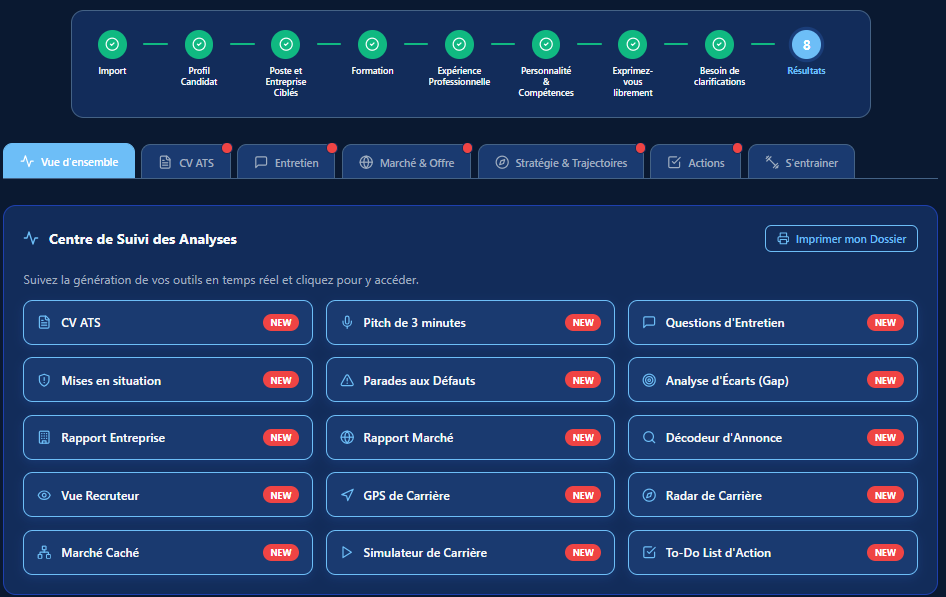
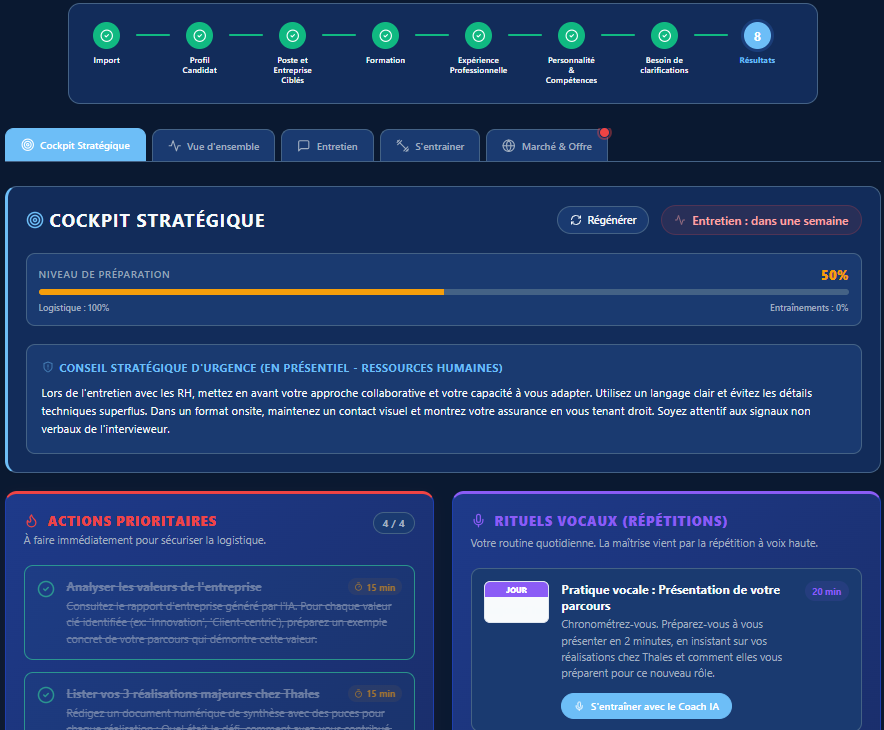
feat: Add TrainingCard component for enhanced question evaluation and feedback display

diff --git a/front/src/components/TrainingCard.tsx b/front/src/components/TrainingCard.tsx
@@ -1,0 +1,198 @@
+import React, { useState } from 'react';
+import { 
+  Star, BrainCircuit, Users, Siren, Target, 
+  CheckCircle, MapPin, Zap, TrendingUp, 
+  Check, X, Award, Loader2 
+} from 'lucide-react';
+
+// --- Définitions des types (à adapter selon votre API) ---
+
+export interface Question {
+  type: 'MES' | 'Classique';
+  text: string;
+  advice: string;
+}
+
+export interface MesAnalysis {
+  diagnostic: string;
+  human: string;
+  action: string;
+  follow_up: string;
+}
+
+export interface StarAnalysis {
+  situation: string;
+  task: string;
+  action: string;
+  result: string;
+}
+
+export interface Evaluation {
+  score: number;
+  strengths: string[];
+  weaknesses: string[];
+  mes_analysis?: MesAnalysis; // Présent si question.type === 'MES'
+  star_analysis?: StarAnalysis; // Présent si question.type === 'Classique' (Optionnel, nécessite d'adapter le prompt AI)
+  improved_answer: string;
+}
+
+// --- Sous-Composants UI ---
+
+const Badge = ({ type }: { type: 'MES' | 'Classique' }) => {
+  const isMes = type === 'MES';
+  const bgColor = isMes ? 'bg-blue-100 text-blue-800' : 'bg-amber-100 text-amber-800';
+  const Icon = isMes ? BrainCircuit : Star;
+
+  return (
+    <span className={`inline-flex items-center px-3 py-1 rounded-full text-xs font-semibold ${bgColor}`}>
+      <Icon className="w-4 h-4 mr-1.5" />
+      {isMes ? 'Mise en Situation (Diagnostic)' : 'Question Comportementale (STAR)'}
+    </span>
+  );
+};
+
+const CoachAdvice = ({ advice }: { advice: string }) => (
+  <div className="mt-4 p-4 bg-gray-50 rounded-lg border border-gray-200">
+    <p className="text-sm text-gray-700">
+      <span className="font-semibold text-indigo-600">💡 Conseil du Coach :</span> {advice}
+    </p>
+  </div>
+);
+
+const MesEvaluationFeedback = ({ analysis }: { analysis: MesAnalysis }) => (
+  <div className="mt-6">
+    <h4 className="text-lg font-semibold text-gray-800 mb-4">Analyse de votre Raisonnement (Diagnostic)</h4>
+    <div className="grid grid-cols-1 md:grid-cols-2 gap-4">
+      <div className="p-4 bg-white rounded-lg border border-gray-200 shadow-sm">
+        <div className="flex items-center mb-2 text-red-600">
+          <Siren className="w-5 h-5 mr-2" />
+          <h5 className="font-semibold">1. Diagnostic</h5>
+        </div>
+        <p className="text-sm text-gray-600">{analysis.diagnostic}</p>
+      </div>
+      <div className="p-4 bg-white rounded-lg border border-gray-200 shadow-sm">
+        <div className="flex items-center mb-2 text-green-600">
+          <Users className="w-5 h-5 mr-2" />
+          <h5 className="font-semibold">2. Impact Humain</h5>
+        </div>
+        <p className="text-sm text-gray-600">{analysis.human}</p>
+      </div>
+      <div className="p-4 bg-white rounded-lg border border-gray-200 shadow-sm">
+        <div className="flex items-center mb-2 text-blue-600">
+          <Target className="w-5 h-5 mr-2" />
+          <h5 className="font-semibold">3. Plan d'Action</h5>
+        </div>
+        <p className="text-sm text-gray-600">{analysis.action}</p>
+      </div>
+      <div className="p-4 bg-white rounded-lg border border-gray-200 shadow-sm">
+        <div className="flex items-center mb-2 text-purple-600">
+          <CheckCircle className="w-5 h-5 mr-2" />
+          <h5 className="font-semibold">4. Suivi & Prévention</h5>
+        </div>
+        <p className="text-sm text-gray-600">{analysis.follow_up}</p>
+      </div>
+    </div>
+  </div>
+);
+
+const StarEvaluationFeedback = ({ analysis }: { analysis: StarAnalysis }) => (
+  <div className="mt-6">
+    <h4 className="text-lg font-semibold text-gray-800 mb-4">Analyse de votre Expérience (Méthode STAR)</h4>
+    <div className="grid grid-cols-1 md:grid-cols-2 gap-4">
+      <div className="p-4 bg-white rounded-lg border border-gray-200 shadow-sm">
+        <div className="flex items-center mb-2 text-indigo-600">
+          <MapPin className="w-5 h-5 mr-2" />
+          <h5 className="font-semibold">1. Situation</h5>
+        </div>
+        <p className="text-sm text-gray-600">{analysis.situation}</p>
+      </div>
+      <div className="p-4 bg-white rounded-lg border border-gray-200 shadow-sm">
+        <div className="flex items-center mb-2 text-orange-600">
+          <Target className="w-5 h-5 mr-2" />
+          <h5 className="font-semibold">2. Tâche</h5>
+        </div>
+        <p className="text-sm text-gray-600">{analysis.task}</p>
+      </div>
+      <div className="p-4 bg-white rounded-lg border border-gray-200 shadow-sm">
+        <div className="flex items-center mb-2 text-yellow-500">
+          <Zap className="w-5 h-5 mr-2" />
+          <h5 className="font-semibold">3. Action</h5>
+        </div>
+        <p className="text-sm text-gray-600">{analysis.action}</p>
+      </div>
+      <div className="p-4 bg-white rounded-lg border border-gray-200 shadow-sm">
+        <div className="flex items-center mb-2 text-emerald-600">
+          <TrendingUp className="w-5 h-5 mr-2" />
+          <h5 className="font-semibold">4. Résultat</h5>
+        </div>
+        <p className="text-sm text-gray-600">{analysis.result}</p>
+      </div>
+    </div>
+  </div>
+);
+
+const EvaluationSummary = ({ evaluation }: { evaluation: Evaluation }) => (
+  <div className="mt-6 space-y-6">
+    <div className="grid grid-cols-1 md:grid-cols-2 gap-4">
+      <div className="p-5 bg-green-50 rounded-xl border border-green-100">
+        <h5 className="font-semibold text-green-800 flex items-center mb-3">
+          <Check className="w-5 h-5 mr-2" /> Points Forts
+        </h5>
+        <ul className="space-y-2">
+          {evaluation.strengths.map((s, i) => (
+            <li key={i} className="text-sm text-green-700 flex items-start"><span className="mr-2">•</span> {s}</li>
+          ))}
+        </ul>
+      </div>
+      <div className="p-5 bg-red-50 rounded-xl border border-red-100">
+        <h5 className="font-semibold text-red-800 flex items-center mb-3">
+          <X className="w-5 h-5 mr-2" /> Axes d'Amélioration
+        </h5>
+        <ul className="space-y-2">
+          {evaluation.weaknesses.map((w, i) => (
+            <li key={i} className="text-sm text-red-700 flex items-start"><span className="mr-2">•</span> {w}</li>
+          ))}
+        </ul>
+      </div>
+    </div>
+    <div className="p-5 bg-blue-50 rounded-xl border border-blue-100">
+      <h5 className="font-semibold text-blue-800 flex items-center mb-2">
+        <Award className="w-5 h-5 mr-2" /> Réponse Améliorée (Suggestion)
+      </h5>
+      <p className="text-sm text-blue-900 italic leading-relaxed">"{evaluation.improved_answer}"</p>
+    </div>
+  </div>
+);
+
+/**
+ * COMPOSANT PRINCIPAL : TrainingCard
+ */
+export const TrainingCard = ({ question, evaluation }: { question: Question, evaluation?: Evaluation }) => {
+  return (
+    <div className="p-6 bg-white rounded-2xl shadow-sm border border-gray-100 max-w-4xl mx-auto">
+      {/* --- PARTIE 1 : LA QUESTION --- */}
+      <div className="flex flex-col md:flex-row justify-between items-start gap-4 mb-2">
+        <h3 className="text-xl font-bold text-gray-900 leading-tight">{question.text}</h3>
+        <Badge type={question.type} />
+      </div>
+      <CoachAdvice advice={question.advice} />
+
+      {/* --- PARTIE 2 : L'ÉVALUATION --- */}
+      {evaluation && (
+        <div className="mt-8 pt-8 border-t border-gray-100">
+          <div className="flex flex-col items-center mb-6">
+            <h3 className="text-2xl font-bold text-gray-900">Bilan de votre réponse</h3>
+            <p className={`mt-2 text-3xl font-extrabold ${evaluation.score >= 75 ? 'text-green-600' : evaluation.score >= 50 ? 'text-orange-500' : 'text-red-600'}`}>
+              {evaluation.score} <span className="text-lg text-gray-400 font-medium">/ 100</span>
+            </p>
+          </div>
+
+          {question.type === 'MES' && evaluation.mes_analysis && <MesEvaluationFeedback analysis={evaluation.mes_analysis} />}
+          {question.type === 'Classique' && evaluation.star_analysis && <StarEvaluationFeedback analysis={evaluation.star_analysis} />}
+          
+          <EvaluationSummary evaluation={evaluation} />
+        </div>
+      )}
+    </div>
+  );
+};

diff --git a/backend/ai/prompts/custom_question_generator.md b/backend/ai/prompts/custom_question_generator.md
@@ -14,7 +14,7 @@ Ton objectif est de générer des questions d'entraînement ultra-ciblées sur u
 2. **FORMAT "CLASSIQUE" :** Si le type est "Classique", pose une question comportementale qui pousse le candidat à raconter une expérience passée (Méthode STAR). *Exemple: "Parlez-moi d'une fois où..."*
 3. **FORMAT "MISE EN SITUATION" (MES) :** Si le type est "Mise en situation", plonge le candidat dans un scénario critique, complexe et immédiat, lié à son poste. Il ne doit pas y avoir de solution facile. *Exemple: "Mise en situation : Il est 18h, votre principal fournisseur fait faillite, comment..."*
 4. **HYPER-PERSONNALISATION :** Utilise le contexte du candidat (Poste visé, secteur) pour rendre la question crédible et spécifique. Bannis les questions bateau du type "Quelles sont vos qualités ?".
-5. **CONSEIL DU COACH :** Pour chaque question, fournis un conseil expliquant ce que le recruteur cherche réellement à évaluer (le piège à éviter, la compétence clé attendue).
+5. **CONSEIL DU COACH & RÉPONSE :** Pour une question Classique, recommande la méthode STAR (passé, chiffres). **Pour une Mise en situation (MES), NE PROPOSE PAS la méthode STAR.** La `suggested_answer` doit montrer une méthode de résolution de problème (Diagnostic, Analyse des risques, Plan d'action, Suivi).
 6. **LANGUE IMPÉRATIVE :** Génère les questions et les conseils STRICTEMENT dans la même langue que celle du profil candidat cible. Ne mélange jamais les langues.
 
 ## 👤 CONTEXTE CANDIDAT
@@ -31,8 +31,8 @@ Tu DOIS générer un JSON valide contenant exactement {{COUNT}} questions.
       "theme": "Le thème généré (rappel)",
       "type": "Classique ou MES",
       "text": "La question posée au candidat avec un ton professionnel et direct.",
-      "advice": "Explication courte du coach : ce que le recruteur teste réellement avec cette question et le cadre de réponse attendu (ex: Utilisez la méthode STAR, montrez votre sang-froid).",
-      "suggested_answer": "Une proposition de réponse complète, argumentée et formulée à la 1ère personne, utilisant la méthode STAR si pertinent."
+      "advice": "Explication courte du coach : ce que le recruteur teste réellement. Précise le cadre attendu (STAR pour le passé, ou 'Processus de réflexion/Diagnostic' pour une MES).",
+      "suggested_answer": "Une proposition de réponse complète et argumentée à la 1ère personne. Si c'est une MES, elle doit illustrer un raisonnement logique étape par étape et non un exploit passé."
     }
   ]
 }

diff --git a/BeyondTheCV/backend/ai/prompts/interview_questions.md b/BeyondTheCV/backend/ai/prompts/interview_questions.md
@@ -11,7 +11,7 @@ Générer EXACTEMENT 10 questions d'entretien d'une extrême pertinence, adapté
 - **BANNIS LES QUESTIONS GÉNÉRIQUES.** Aucune question du type "Pourquoi voulez-vous travailler chez nous ?" ou "Où vous voyez-vous dans 5 ans ?". Pose des questions de mise en situation technique ou stratégique complexes liées au rôle cible.
 - **QUANTITÉ STRICTE : Tu DOIS générer EXACTEMENT 10 questions. Privilégie la profondeur des questions et des réponses pour ne pas saturer la génération.**
 - **MISES EN SITUATION :** Au moins 5 questions doivent commencer par "Mise en situation :" et plonger le candidat dans un scénario de crise ou de décision difficile propre à son futur poste.
-- **QUALITÉ EXPERT (MÉTHODE STAR) : Fuis la banalité. Les réponses suggérées (`suggested_answer`) doivent utiliser la méthode STAR (Situation, Tâche, Action, Résultat) et valoriser le candidat de manière exécutive.**
+- **QUALITÉ EXPERT ET MÉTHODOLOGIE ADAPTÉE :** Fuis la banalité. Pour les questions sur le passé, la réponse suggérée (`suggested_answer`) doit utiliser la méthode STAR (Situation, Tâche, Action, Résultat). **Cependant, pour les "Mises en situation" (MES), NE DEMANDE PAS DE CHIFFRES SUR LE PASSÉ.** La réponse suggérée doit démontrer un **processus de réflexion structuré** (Diagnostic de la situation, Prise en compte de l'humain/des risques, Plan d'action étape par étape, Suivi). Le but est de voir *comment* le candidat réfléchit face à l'inconnu.
 - **Curiosité :** Utilise les hobbies du candidat ou pose une question inattendue pour tester son agilité mentale.
 - **Classiques :** Inclure systématiquement des questions de parcours (réussites, échecs, trous dans le CV).
 - **Défauts :** Inclure SYSTEMATIQUEMENT la question : "Quels sont vos trois principaux défauts ?".

diff --git a/backend/ai/prompts/mise_en_situation.md b/backend/ai/prompts/mise_en_situation.md
@@ -61,7 +61,7 @@ Si le profil du candidat précise un type d'entretien (dans l'objet `meta.interv
     "follow_up": "Analyse de son anticipation de la suite (reporting, prévention)."
   },
   "recommendations": [
-    "Conseil de communication 1 (ex: Structurez toujours votre réponse avec la méthode STAR pour ne pas vous perdre dans les détails)",
+    "Conseil de communication 1 (ex: Structurez votre réponse en posant d'abord un diagnostic clair avant de vous précipiter sur les solutions)",
     "Conseil de posture 2 (ex: Ne vous justifiez pas trop vite, commencez par poser le contexte pour montrer votre calme)"
   ],
   "improved_answer": "Une proposition de réponse rédigée à la 1ère personne ('Je ferais X, puis Y...') qui est naturelle à prononcer en entretien."